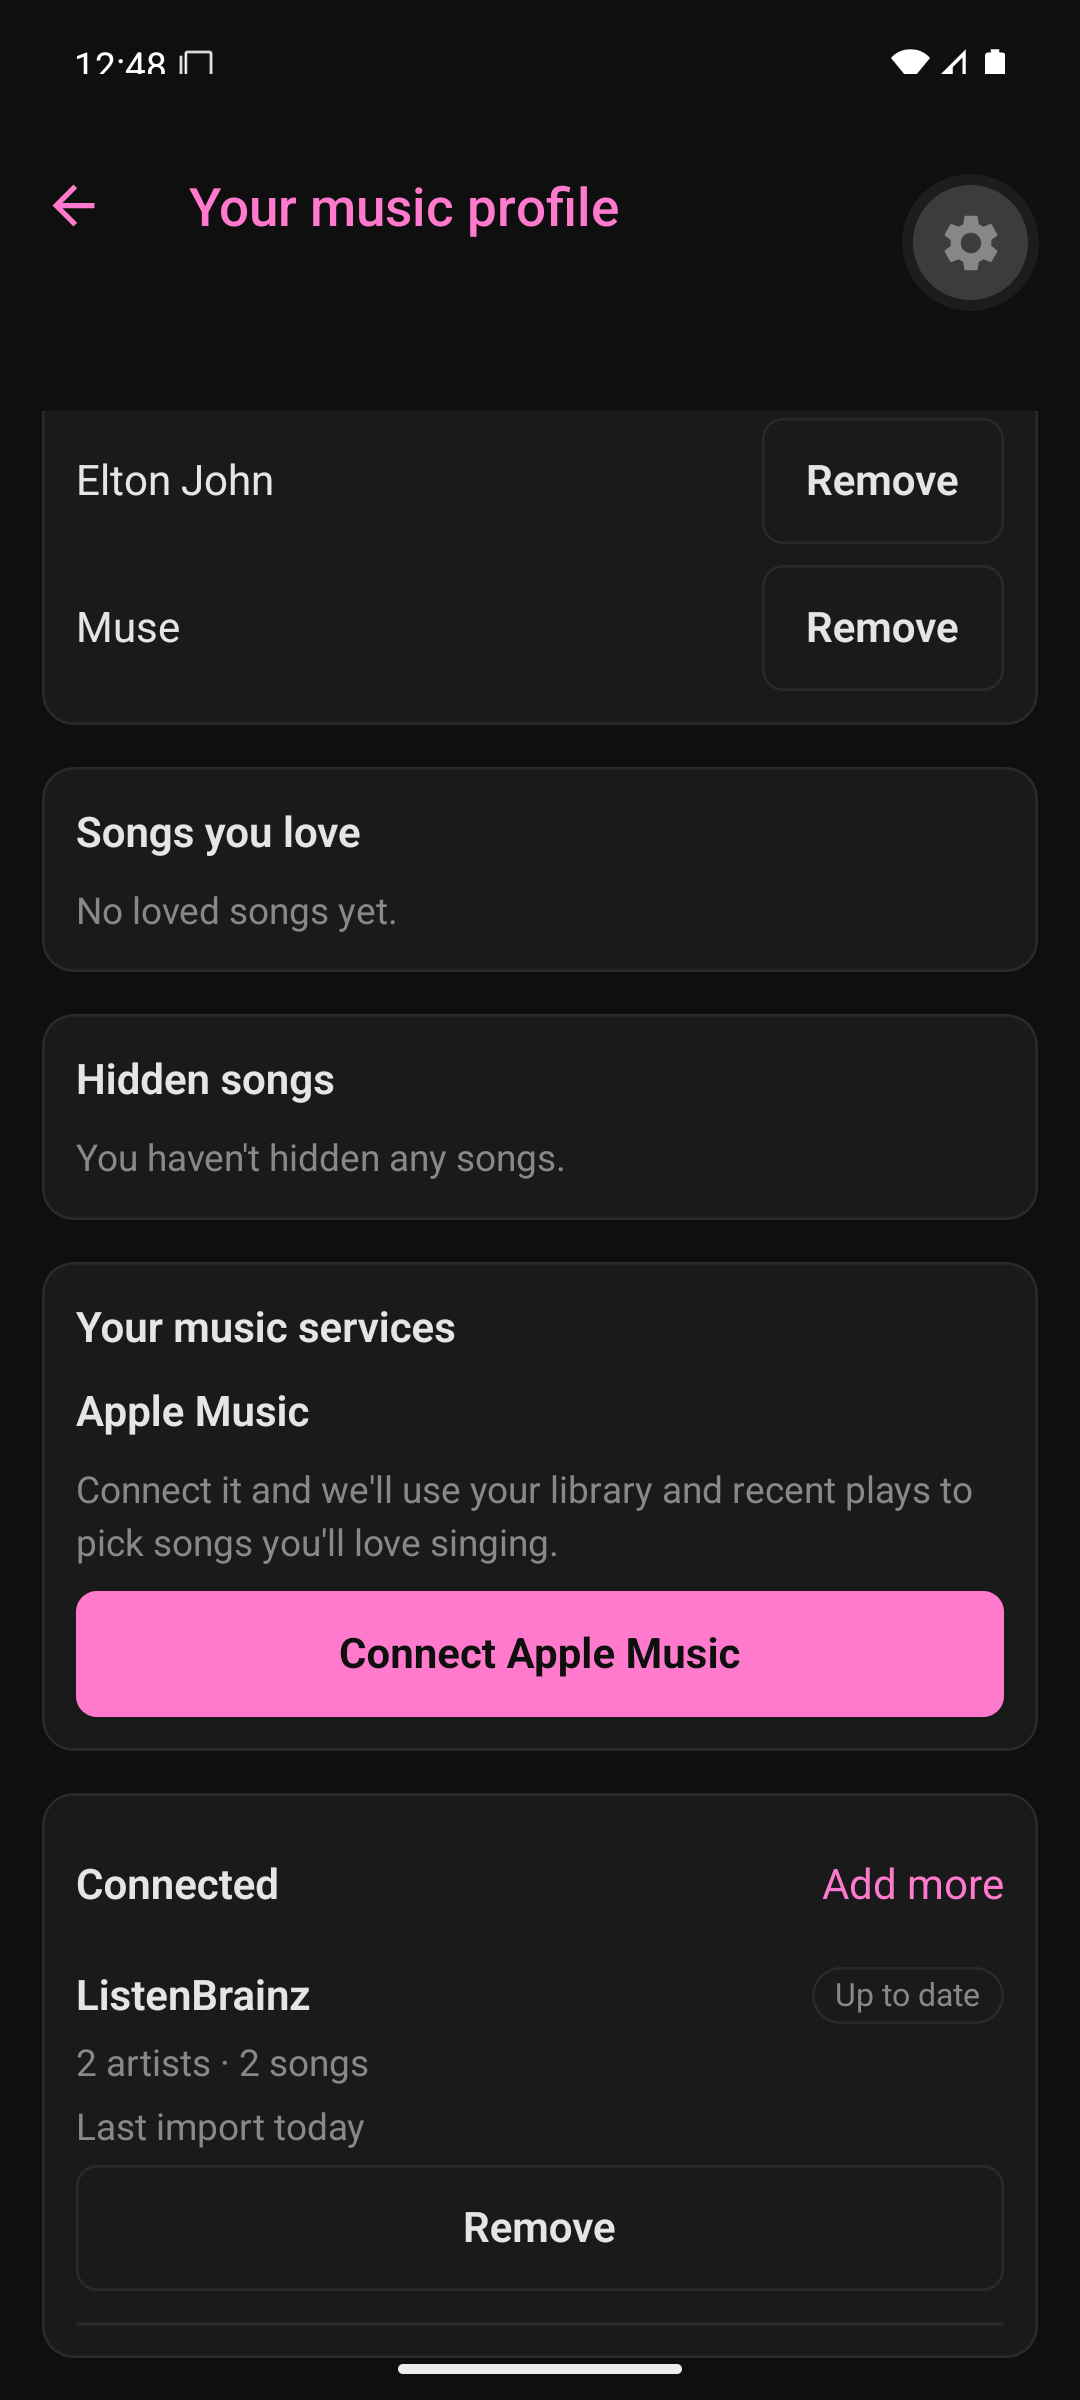
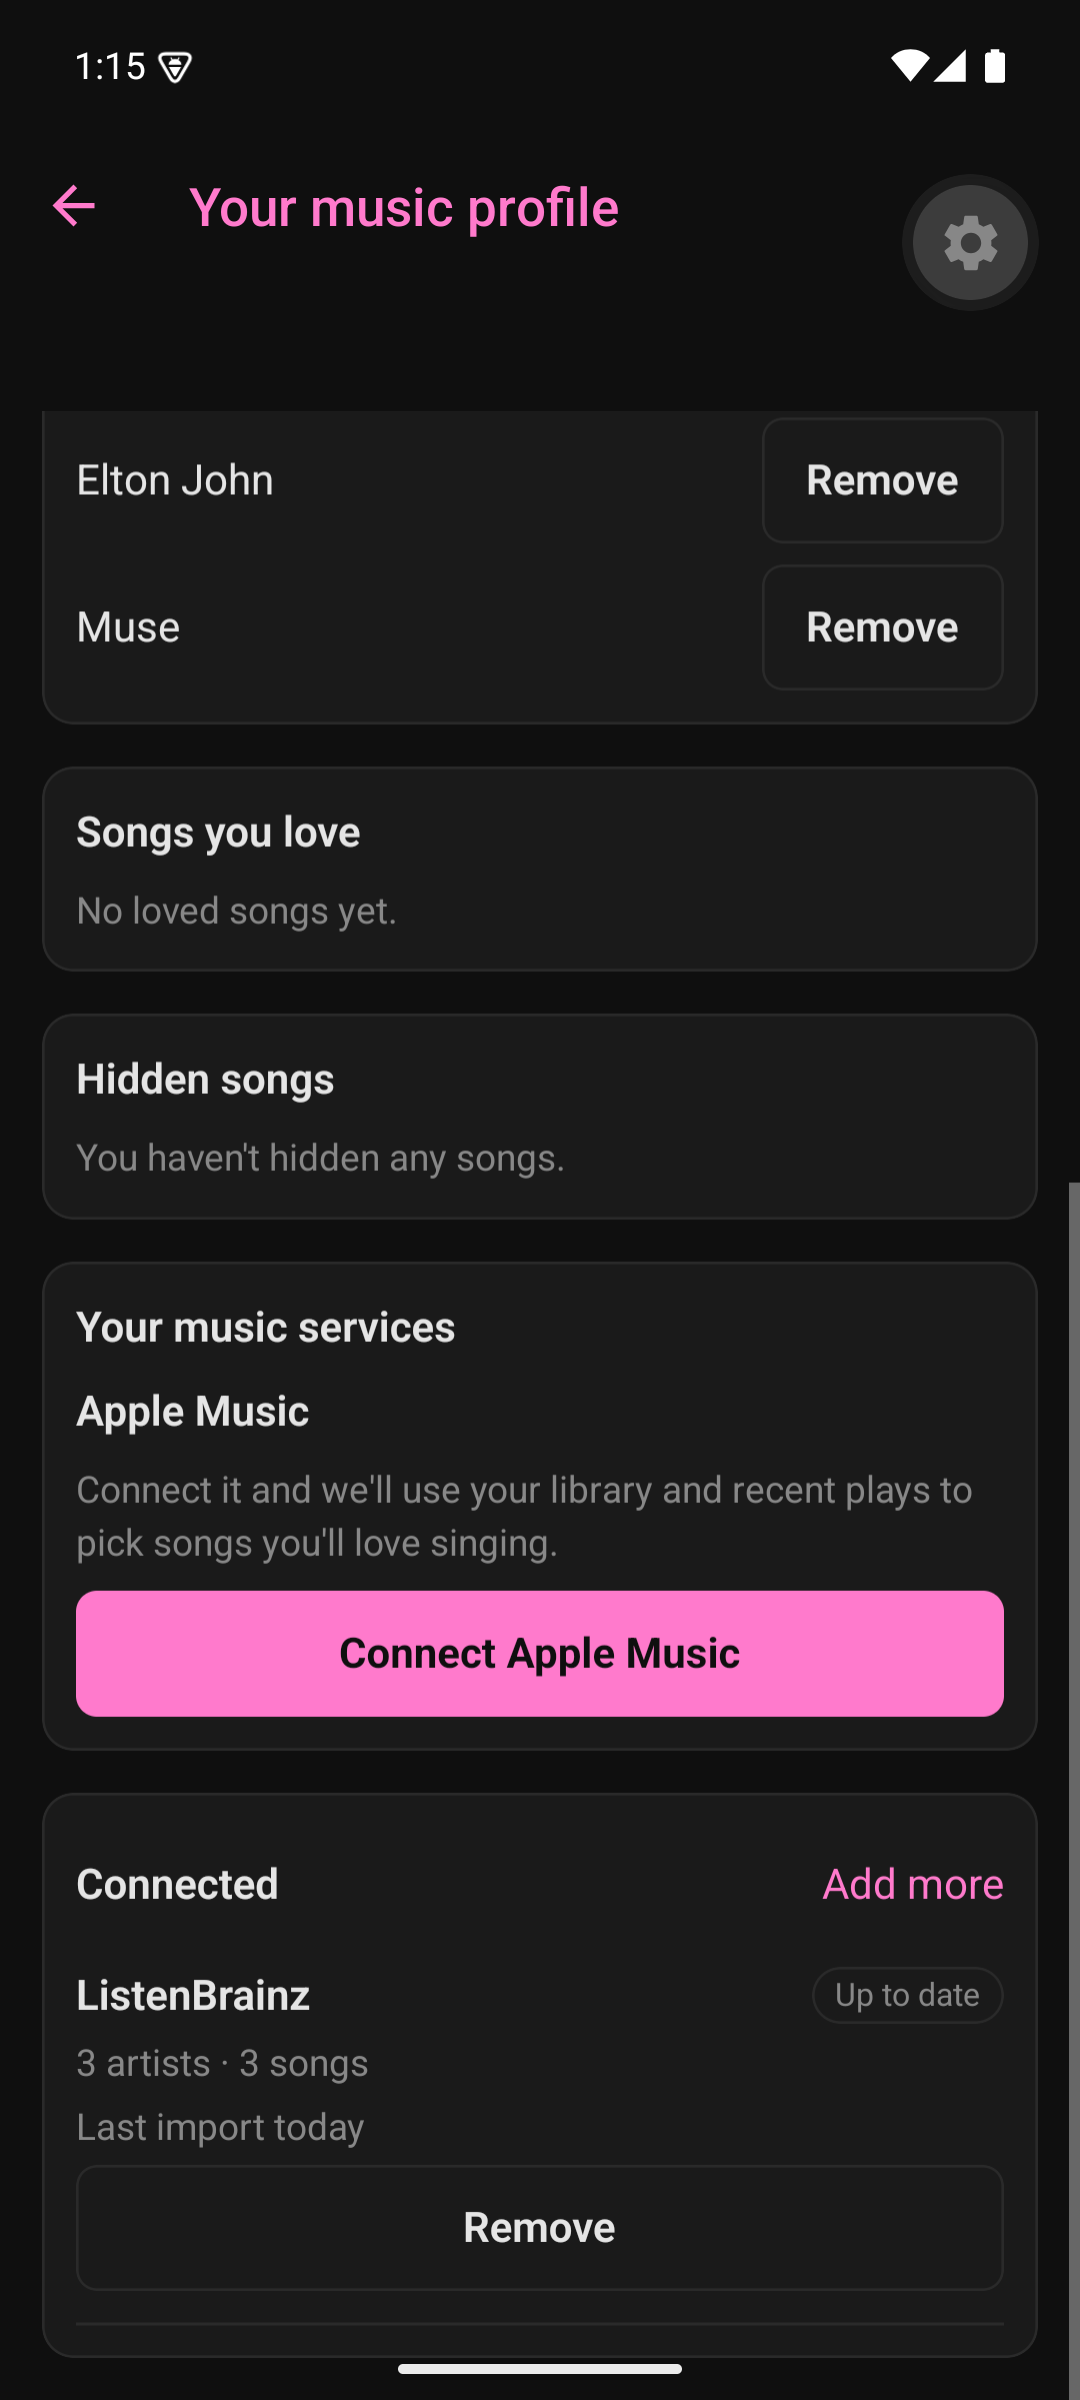
test(e2e): connect-4 proves the LB poller adds a new listen; review round 1
connect-4 adds a fresh listen of a song the user lacks after the connect's sync and asserts lb-poll added
listens and one more LB song (stack.js ADD / EXPECT_ADDED / MIN_SONGS_ADDED). The profile row step asserts
the source's own counts line (connected-counts-<source>). pl plural fix, Tonight-ports note, iOS screenshot
fixture added once per simulator.

Claude-Session: https://claude.ai/code/session_01CnYYBgskTCMsLuAYA8gfuk

Changed region(s): [[0.9778, 0.4688, 1.0, 1.0], [0.0917, 0.0, 0.1833, 0.0312]]

diff --git a/maestro/scripts/stack.js b/maestro/scripts/stack.js
@@ -64,13 +64,16 @@
 //   fake-externals:   KNOBS (JSON, optional: metabrainz deny, spotify_embed changed, screenshot fail, …) -> resets every
 //            fake (seeded users, codes, imports) and sets those knobs (PUT ${DECIDE_STACK}/api/test/fake-externals)
 //   fake-lb-user:     USERNAME (default e2e-lb-<ms>), LISTENS (JSON [{artist, title, listened_at}], default: fixture
-//            catalog songs listened to in the last few hours) -> a fake ListenBrainz user; output.lbUsername
+//            catalog songs listened to in the last few hours) -> a fake ListenBrainz user; output.lbUsername,
+//            output.lbListens (JSON). ADD (JSON [{artist, title}]): instead, the same user (output.lbUsername unless
+//            USERNAME) keeps output.lbListens and gets these listened to just now (the fake only replaces a user).
 //   fake-lastfm-user: USERNAME (default e2e-lastfm-<ms>), TOP_TRACKS / TOP_ARTISTS (JSON, default fixture catalog
 //            songs / artists) -> a fake Last.fm user; output.lastfmUsername
 //   lb-poll:  runs decide's daily ListenBrainz poller once (POST ${DECIDE_STACK}/api/test/listenbrainz/poll)
-//            -> output.lbListensAdded
+//            -> output.lbListensAdded; EXPECT_ADDED: fails unless it added at least that many listens
 //   source-counts: SOURCE (decide source id: screenshot, spotify_playlist, spotify_export, listenbrainz, lastfm, …),
-//            MIN_SONGS / MIN_ARTISTS (default 1 / 0), TOKEN (default output.token from setup; decide takes the gen
+//            MIN_SONGS / MIN_ARTISTS (default 1 / 0) or MIN_SONGS_ADDED (at least that many more songs than the previous
+//            source-counts call's output.sourceSongs), TOKEN (default output.token from setup; decide takes the gen
 //            session) -> polls GET ${DECIDE_STACK}/api/services/summary until that source's row has at least those
 //            counts or WAIT_MS (default 20000) passes; output.sourceSongs / output.sourceArtists
 // Wrapped in a function: a flow can run this file more than once, and top-level `let`s must not collide.
@@ -455,12 +458,21 @@
       'decide fake-externals',
     );
   } else if (action === 'fake-lb-user') {
-    const username = envValue(typeof USERNAME !== 'undefined' ? USERNAME : undefined) || 'e2e-lb-' + new Date().getTime();
     const nowS = Math.floor(new Date().getTime() / 1000);
+    const addEnv = envValue(typeof ADD !== 'undefined' ? ADD : undefined);
+    const username =
+      envValue(typeof USERNAME !== 'undefined' ? USERNAME : undefined) ||
+      (addEnv ? output.lbUsername : null) ||
+      'e2e-lb-' + new Date().getTime();
+    if (addEnv && !username) throw new Error('ACTION fake-lb-user ADD needs USERNAME (or a fake-lb-user first)');
     const listensEnv = envValue(typeof LISTENS !== 'undefined' ? LISTENS : undefined);
-    const listens = listensEnv
-      ? JSON.parse(listensEnv)
-      : [
+    const listens = addEnv
+      ? JSON.parse(output.lbListens || '[]').concat(
+          JSON.parse(addEnv).map((x) => ({ artist: x.artist, title: x.title, listened_at: nowS })),
+        )
+      : listensEnv
+        ? JSON.parse(listensEnv)
+        : [
           { artist: 'Muse', title: 'Starlight', listened_at: nowS - 3600 },
           { artist: 'Muse', title: 'Starlight', listened_at: nowS - 7200 },
           { artist: 'Elton John', title: 'Rocket Man', listened_at: nowS - 10800 },
@@ -473,6 +485,7 @@
       'decide fake ListenBrainz user',
     );
     output.lbUsername = username;
+    output.lbListens = JSON.stringify(listens);
   } else if (action === 'fake-lastfm-user') {
     const username = envValue(typeof USERNAME !== 'undefined' ? USERNAME : undefined) || 'e2e-lastfm-' + new Date().getTime();
     const tracksEnv = envValue(typeof TOP_TRACKS !== 'undefined' ? TOP_TRACKS : undefined);
@@ -503,12 +516,22 @@
       'decide ListenBrainz poll',
     );
     output.lbListensAdded = String(r.listens_added);
+    const wantAdded = envValue(typeof EXPECT_ADDED !== 'undefined' ? EXPECT_ADDED : undefined);
+    if (wantAdded !== null && r.listens_added < Number(wantAdded)) {
+      throw new Error('lb-poll added ' + r.listens_added + ' listens, expected at least ' + wantAdded + ': ' + JSON.stringify(r));
+    }
   } else if (action === 'source-counts') {
     const source = envValue(typeof SOURCE !== 'undefined' ? SOURCE : undefined);
     if (!source) throw new Error('ACTION source-counts needs SOURCE');
     const token = envValue(typeof TOKEN !== 'undefined' ? TOKEN : undefined) || output.token;
     if (!token) throw new Error('ACTION source-counts needs TOKEN (or ACTION setup first)');
-    const minSongs = Number(envValue(typeof MIN_SONGS !== 'undefined' ? MIN_SONGS : undefined) || 1);
+    const added = envValue(typeof MIN_SONGS_ADDED !== 'undefined' ? MIN_SONGS_ADDED : undefined);
+    if (added !== null && !output.sourceSongs) throw new Error('MIN_SONGS_ADDED needs an earlier source-counts (output.sourceSongs)');
+    const minSongs =
+      added !== null
+        ? Number(output.sourceSongs) + Number(added)
+        : Number(envValue(typeof MIN_SONGS !== 'undefined' ? MIN_SONGS : undefined) || 1);
+    if (!Number.isFinite(minSongs)) throw new Error('source-counts: bad MIN_SONGS / MIN_SONGS_ADDED');
     const minArtists = Number(envValue(typeof MIN_ARTISTS !== 'undefined' ? MIN_ARTISTS : undefined) || 0);
     const waitMs = Number(envValue(typeof WAIT_MS !== 'undefined' ? WAIT_MS : undefined) || 20000);
     const deadline = new Date().getTime() + waitMs;

diff --git a/apps/mobile/src/__tests__/connect/connectedSources.test.tsx b/apps/mobile/src/__tests__/connect/connectedSources.test.tsx
@@ -104,6 +104,9 @@ describe('Connected sources on the music profile', () => {
     expect(exp.getByText('Importing')).toBeTruthy();
     expect(exp.getByText('30 artists · 250 songs')).toBeTruthy();
     expect(exp.getByText('Last import today')).toBeTruthy();
+    // Each counts line has its own id (E2E asserts one source's counts).
+    expect(screen.getByTestId('connected-counts-lastfm')).toHaveTextContent('1 artist · 1 song');
+    expect(screen.getByTestId('connected-counts-spotify_export')).toHaveTextContent('30 artists · 250 songs');
   });
 
   it('says nothing is connected yet, and Add more opens the hub', async () => {

diff --git a/apps/mobile/src/discover/connect/ConnectedSources.tsx b/apps/mobile/src/discover/connect/ConnectedSources.tsx
@@ -175,7 +175,9 @@ function SourceRow({
           <Text className={`text-xs ${statusKey === 'ok' ? 'text-muted' : 'text-primary'}`}>{t(`status.${statusKey}`)}</Text>
         </View>
       </View>
-      <Text variant="muted">{t('counts', { artists: s.artists ?? 0, songs: s.songs ?? 0 })}</Text>
+      <Text testID={`connected-counts-${s.source}`} variant="muted">
+        {t('counts', { artists: s.artists ?? 0, songs: s.songs ?? 0 })}
+      </Text>
       {s.last_import_at ? <Text variant="muted">{t('lastImport', { days: daysSince(s.last_import_at) })}</Text> : null}
       {status === 'stale' ? (
         <Pressable

diff --git a/eslint.config.js b/eslint.config.js
@@ -95,6 +95,9 @@ module.exports = defineConfig([
         EXPECT_ENTRY_STATUS: 'readonly',
         EXPECT_ENTRY_SINGER: 'readonly',
         KNOBS: 'readonly',
+        ADD: 'readonly',
+        EXPECT_ADDED: 'readonly',
+        MIN_SONGS_ADDED: 'readonly',
         SOURCE: 'readonly',
         USERNAME: 'readonly',
         LISTENS: 'readonly',

diff --git a/CLAUDE.md b/CLAUDE.md
@@ -94,7 +94,7 @@ CocoaPods note (Andrew's Mac): a stale `~/.gem/ruby/3.3.0/bin/pod` shim shadows 
 - **Tonight flows (tonight-1…11):** `common/tonight-reset.yaml` = a fresh gen user (`stack.js setup`, optional `USER_CONFIG`) + `stack.js ACTION: kjbox OP: reset` (a new night, so every flow gets a new night_id) + the default rate limits; `common/tonight-join-code.yaml` launches signed out, enters 2121, signs in (fake Google) and confirms the name; `common/tonight-request.yaml` searches and confirms the first result; `common/tonight-advance-to-me.yaml` moves the rotation on until the singer is on stage (Refresh instead of the 15 s poll). `stack.js ACTION: kjbox` wraps every test-API op (`OP`, see the header) and `OP: state` asserts a rotation entry by title/status/singer (seed and host-add write the box's "Title - Artist" text). `ACTION: log` polls decide's `/api/test/karaoke-log?email=` until the expected records are there (the outbox is async). `ACTION: kjbox OP: stop|start` and `ACTION: decide OP: stop|start` call `scripts/stack-control.py` (:8049, started by e2e-local.sh): tonight-9 stops the box mid-flow (unreachable banner, then recovery), tonight-10 stops decide (the karaoke-log outbox waits, then syncs on the next foreground). Shots go to `${TONIGHT_SHOTS}` = `docs/screenshots/phase5/<platform>/`; the tour (`--screen tonight-tour`) to `docs/screenshots/phase5/<platform>/<locale>/`. tonight-1 opens `nomadkaraoke://tonight?t=2121` on iOS and the App Link `https://kjbox.cc/2121` on Android (e2e-local.sh makes the app the user-selected handler for kjbox.cc, since the local debug build's assetlinks can't verify).
 - **Tonight gotchas:** a make-it job auto-approved by gen's fake workers finishes in seconds with no NOMAD code, so kjbox marks it for the host and never offers a quick version: tonight-7 sets `USER_CONFIG {"auto_approve": false}` so the job waits in review with its quick version ready. The rename guard compares first names (`Wren` → `Wren B` goes straight through; `Xander` asks). Host-added entries the host cancels drop out of `/me` (only the singer's own requests stay with the "took this song off the list" copy). On iOS 26 a Tonight sheet opened right after another sheet or the keyboard went away sometimes came up without its accessibility tree (Maestro saw an empty app until it closed): `common/tonight-rename.yaml` waits 1 s first, and tonight-11 relaunches before its third rename. Container `View` testIDs don't carry their children's text on iOS: match the text itself (`assertVisible: "Replacing .*Hello.*"`), and isolate() wraps interpolated names in invisible marks, so text regexes start with `.*`. `close-browser-if-open.yaml` leaves Tonight sheets' own Cancel buttons alone. On iOS 26, once a sheet came up without its accessibility tree, every later sheet in that app session did too until a relaunch: `common/tonight-open-sheet.yaml` relaunches (keeping data) and retries. Android: tapping a prefilled field puts the cursor mid-text and `eraseText` only deletes what is before it (names like "Tess64943"), so the name steps don't tap the (auto-focused) field; the dev menu's floating Tools button sits at the top right, over Refresh when the list has scrolled, so Refresh goes through `common/tonight-refresh.yaml` (the list scrolled to its top first; dragging the button aside with `move-dev-tools-button.yaml` dropped it on other controls or opened system settings); an AVD left in airplane mode can't reach Metro (`ENETUNREACH 10.0.2.2:8081` on every launch), so `e2e-local.sh` turns it off. `e2e-local.sh` resets the kjbox stack (`local-stack.sh reset`) every run (`KJBOX_KEEP=1` keeps it): a make-it from an earlier run lands in the box's library, after which "machu picchu strokes" has a karaoke version. Screen tours use `common/header-back.yaml` (the back chevron is unlabelled and on the right in ar/he) and the status tile's `tonight-status-<kind>` wrapper (`onStage`, `next`, …) to wait for turns in any language.
 - **Connect flows (connect-1…5, Phase 3b):** run against decide's fakes (`DECIDE_FAKE_EXTERNALS`, decide `docs/TESTING.md` § Local stack: fakes). `common/connect-open.yaml` resets the fakes (`stack.js ACTION: fake-externals`), seeds a profile, signs in and opens Improve → Connect; `stack.js` also has `fake-lb-user`, `fake-lastfm-user`, `lb-poll` and `source-counts` (asserts a source's songs in decide's `/api/services/summary` with setup's gen token). When the run has connect flows, `e2e-local.sh` writes the Spotify Extended fixture zip (`node scripts/make-import-fixtures.ts`, gitignored) and `maestro/scripts/push-fixtures.sh` puts it in iOS Files "On My iPhone" / Android Downloads plus a photo in Photos / Pictures. Pickers: iOS PHPicker photos are "Photo, <date>, <time>" (then Done), the Files cell is tapped by its id `spotify-extended.zip, zip` (a tap on its name label doesn't pick); Android's photo picker items are "Photo taken on …" (then Add), DocumentsUI opens on Recent. The Connect screens sit over the tabs: `common/connect-back-to-tabs.yaml` (iOS back button id `BackButton`, labelled with the previous title; the hub's own is `connect-hub-back`). Shots in `${SHOTS3B}` = `docs/screenshots/phase3b/<platform>/`.
-- **A second stack beside the default one:** `METRO_PORT`, `DECIDE_PORT`, `SEARCH_PORT` (defaults 8081 / 8030 / 8020) move Metro and decide; `IOS_DEVICE` / `ANDROID_SERIAL` pick the device (another AVD needs its own name; `expo run:android --device <AVD name>`). On iOS with a non-default Metro port, `e2e-local.sh` points the dev client at it once (`simctl openurl`), since a fresh `expo run:ios` build opens :8081. Two sessions' iOS runs at once both use Maestro's driver port 7001: a "Failed to connect to /127.0.0.1:7001" mid-flow is that (or a driver crash), and a rerun passes.
+- **A second stack beside the default one:** `METRO_PORT`, `DECIDE_PORT`, `SEARCH_PORT` (defaults 8081 / 8030 / 8020) move Metro and decide; `IOS_DEVICE` / `ANDROID_SERIAL` pick the device (another AVD needs its own name; `expo run:android --device <AVD name>`). Tonight flows need the default decide ports (kjbox's local stack sends its karaoke-log outbox to decide on :8030). On iOS with a non-default Metro port, `e2e-local.sh` points the dev client at it once (`simctl openurl`), since a fresh `expo run:ios` build opens :8081. Two sessions' iOS runs at once both use Maestro's driver port 7001: a "Failed to connect to /127.0.0.1:7001" mid-flow is that (or a driver crash), and a rerun passes.
 - **Android emulator:** AVD `Pixel_8_API_35_Root` (`system-images;android-35;google_apis;arm64-v8a`; start it with `-gpu host`), configured with `hw.ramSize = 4096M`, `hw.cpu.ncore = 4`, `hw.gpu.mode = host`. With the default 1.5 GB / software GPU, adb dropped the emulator transport mid-flow ("device offline"), which also wipes every `adb reverse` rule.
 
 ## Rules
